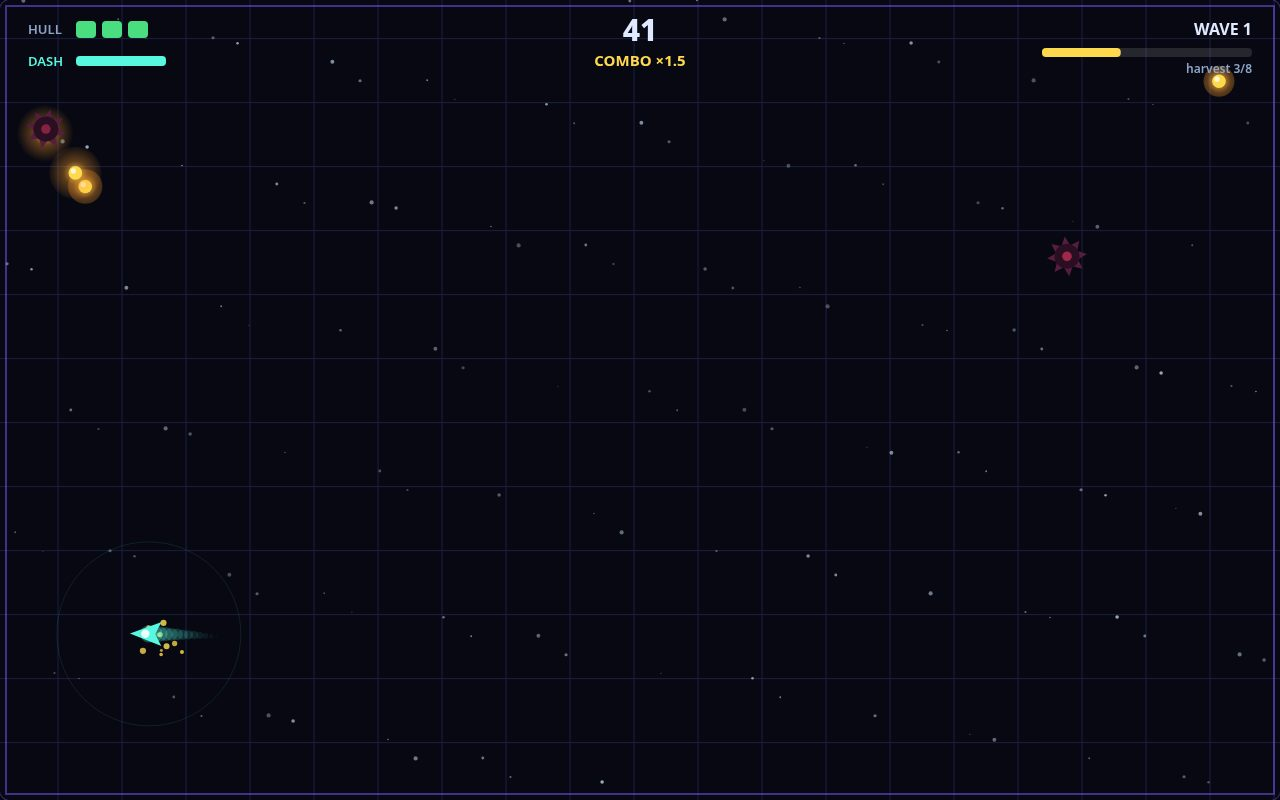
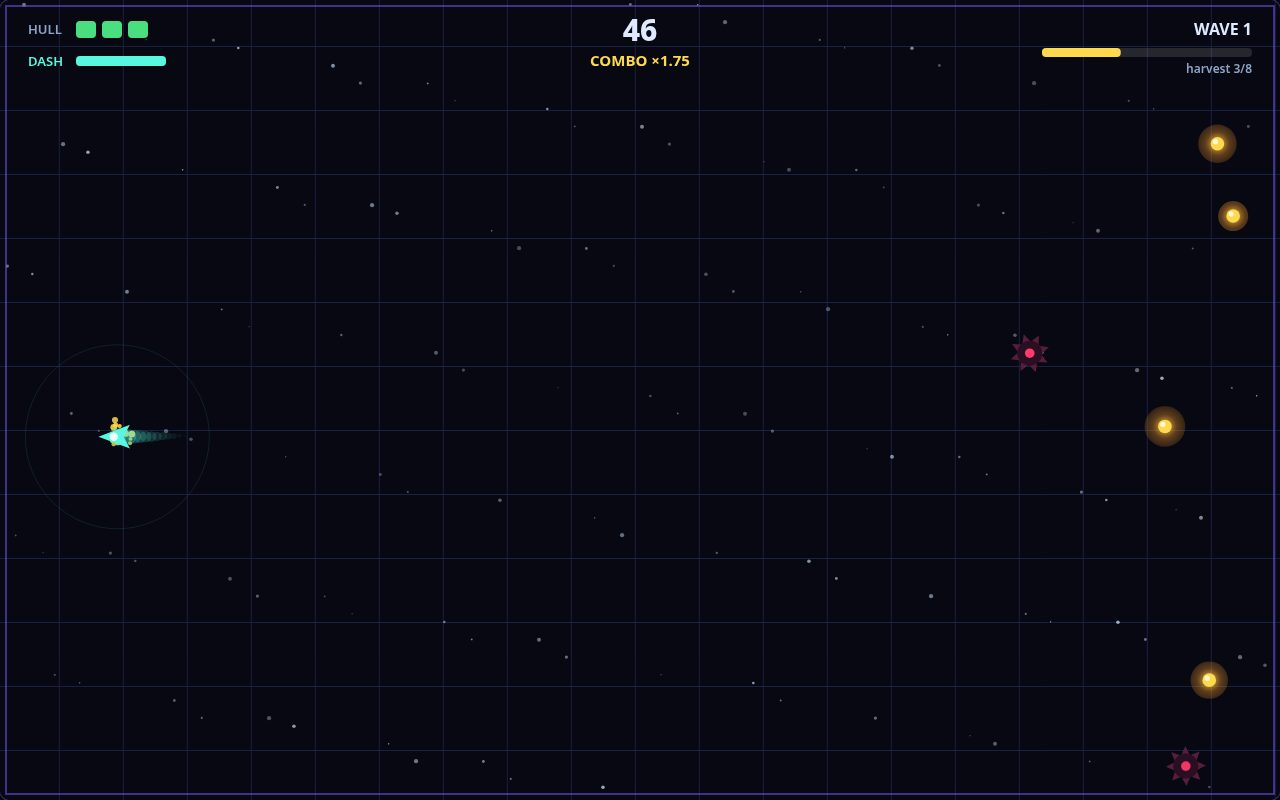
Denser core field, correct cleared-wave label, cull escaped cores

diff --git a/game/src/ui.js b/game/src/ui.js
@@ -78,7 +78,7 @@ export function drawTitle(ctx, best) {
 export function drawUpgrade(ctx, world, offer, mouse) {
   ctx.fillStyle = 'rgba(4,5,14,0.72)';
   ctx.fillRect(0, 0, ARENA.width, ARENA.height);
-  text(ctx, `WAVE ${world.wave} CLEARED`, ARENA.width / 2, 196, 40, COLORS.text, 'center', 800);
+  text(ctx, `WAVE ${world.wave - 1} CLEARED`, ARENA.width / 2, 196, 40, COLORS.text, 'center', 800);
   text(ctx, `score ${world.score} — choose one refit to fly on`, ARENA.width / 2, 240, 18, COLORS.dim, 'center');
   const cards = upgradeCards();
   offer.forEach((u, i) => {

diff --git a/game/src/world.js b/game/src/world.js
@@ -148,6 +148,8 @@ export class World {
       core.vx *= 0.995; core.vy *= 0.995;
       core.pulse += dt * 4;
     }
+    // A core flung wide of the arena is lost to the void; free its spawn slot.
+    this.cores = this.cores.filter((core) => core.x > -90 && core.x < ARENA.width + 90 && core.y > -90 && core.y < ARENA.height + 90);
     const touchCore = (SHIP.radius + CORE.radius) * (SHIP.radius + CORE.radius);
     this.cores = this.cores.filter((core) => {
       if (dist2(core, ship) > touchCore) return true;

diff --git a/game/src/config.js b/game/src/config.js
@@ -22,10 +22,10 @@ export const DASH = {
 export const CORE = {
   radius: 11,
   baseValue: 10,
-  spawnEveryMs: 900,
-  maxAlive: 9,
-  driftMin: 24,
-  driftMax: 62,
+  spawnEveryMs: 750,
+  maxAlive: 11,
+  driftMin: 40,
+  driftMax: 95,
   magnetSpeed: 520,
 };
 
